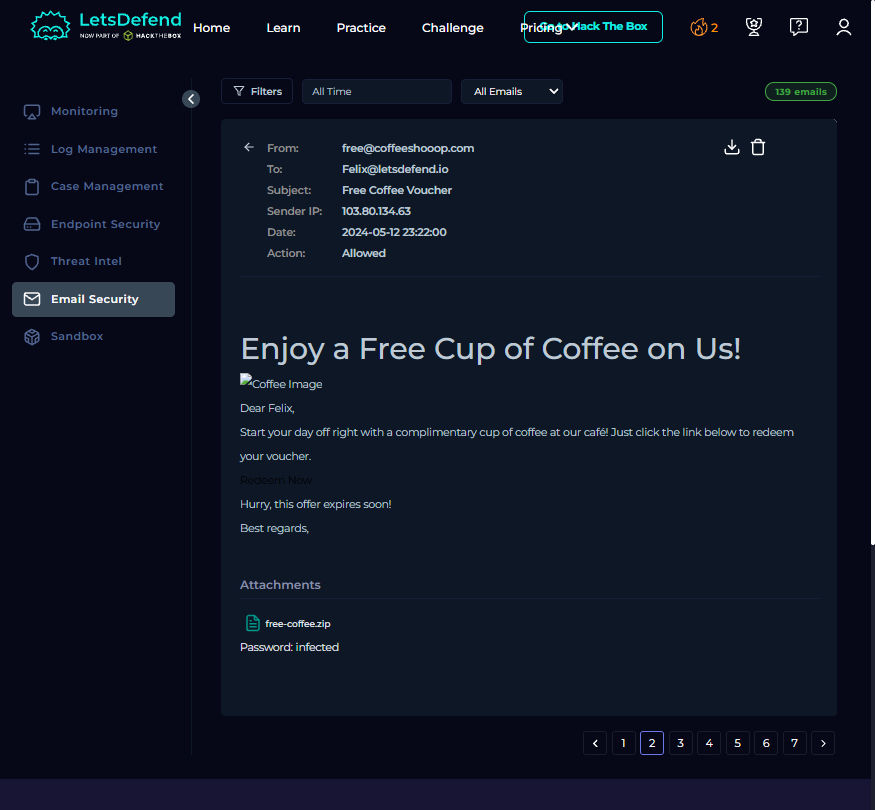
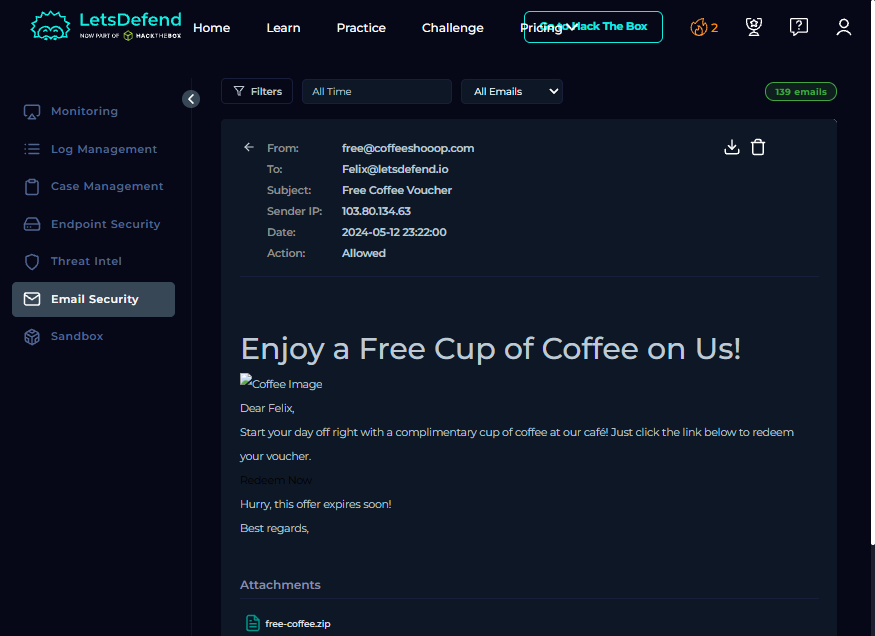
fix: crop passwords from mail screenshots, fix stale report count, bound the SPL window, label rules as draft (v1.2.1)

diff --git a/detection-engineering/tests/test_rules.py b/detection-engineering/tests/test_rules.py
@@ -87,6 +87,15 @@ class TestSplRule(unittest.TestCase):
     def test_has_a_threshold(self) -> None:
         self.assertRegex(self.rule, r"where attempts >= \d+")
 
+    def test_time_window_is_bounded(self) -> None:
+        """An unbounded search is a scan, not a detection."""
+        self.assertRegex(self.rule, r"earliest=-\d+[mhd]")
+        self.assertIn("latest=now", self.rule)
+
+    def test_has_no_redundant_port_range_clause(self) -> None:
+        """The earlier draft had a port clause that could never be false."""
+        self.assertNotIn("dest_port < 1024 OR", self.rule)
+
     def test_excludes_common_ports(self) -> None:
         self.assertRegex(self.rule, r"NOT \(dest_port IN \([0-9, ]+\)\)")
 

diff --git a/detection-engineering/README.md b/detection-engineering/README.md
@@ -14,6 +14,8 @@ so treat them as a starting point for a detection team, not as finished detectio
 
 ## Rule 1 — Office spawns a script host (Sigma)
 
+**Status:** draft · **Tested against real telemetry:** no · **Tuning:** required before use
+
 **Why:** in case 03 the workbook was not the attack; the `cscript.exe` it started was. A spreadsheet has no
 business launching a script interpreter.
 
@@ -66,13 +68,14 @@ alert. Start in `experimental` and route to a test index first.
 
 ## Rule 2 — Outbound session to an uncommon port (SPL)
 
+**Status:** draft · **Tested against real telemetry:** no · **Tuning:** required before use
+
 **Why:** in case 01 the dropped binary opened a TCP session to a hosting address on port `3451`. Port 443 is
 normal; port 3451 from a desktop process is not.
 
 ```spl
-index=firewall action=permit
+index=firewall action=permit earliest=-15m latest=now
 | eval dest_port=tonumber(dest_port)
-| where dest_port < 1024 OR (dest_port >= 1024 AND dest_port <= 65535)
 | where NOT (dest_port IN (53, 80, 123, 443, 8080, 8443))
 | stats count AS attempts,
         min(_time) AS first_seen,
@@ -86,8 +89,10 @@ index=firewall action=permit
 | sort - attempts
 ```
 
-**Reading it:** one hit is noise. Three or more sessions from the same host to the same address and port in
-a short window is a conversation. That is what case 01 looked like.
+**Reading it:** the window is bounded by `earliest=-15m latest=now`, so the search always looks at the last
+fifteen minutes and never at the whole index. The threshold is the second bound: three or more sessions from
+the same host to the same address and port inside those fifteen minutes is a conversation. That is what case
+01 looked like.
 
 **Tuning notes:** add the company's approved outbound ports to the exclusion list. If the firewall logs do
 not carry `process_name`, pivot on `dest_ip` alone and join with EDR later.
@@ -95,6 +100,8 @@ not carry `process_name`, pivot on `dest_ip` alone and join with EDR later.
 ---
 
 ## Rule 3 — Mail delivery, then a download, then a beacon (KQL)
+
+**Status:** draft · **Tested against real telemetry:** no · **Tuning:** required before use
 
 **Why:** cases 01 and 05 both followed the same shape: a message was delivered, a user downloaded a file,
 and a process connected out. Any one row is weak. The three together are the case.

diff --git a/practical-evidence/screenshots/README.md b/practical-evidence/screenshots/README.md
@@ -5,8 +5,8 @@ published. Each image is here to support a specific claim in the case summaries.
 
 | File | Case | What it proves | What was removed |
 | :--- | :--- | :--- | :--- |
-| `01-mail-evidence.png` | Case 01 | The message was delivered, with sender, recipient, subject and action | Nothing — the panel has no answers |
-| `02-mail-body.png` | Case 01 | The body, the "Redeem Now" link and the attachment name | Nothing |
+| `01-mail-evidence.png` | Case 01 | The message was delivered, with sender, recipient, subject and action | The attachment password line, cropped out at 610 px |
+| `02-mail-body.png` | Case 01 | The body, the "Redeem Now" link and the attachment name | The attachment password line, cropped out at 636 px |
 | `03-endpoint-empty.png` | Case 01 | The endpoint console listed no hosts, which is why isolation stayed a recommendation | Nothing |
 | `04-soc138-case-report.png` | Case 03 | Case closed with 100 % playbook success and the alert fields (hash, file name, device action) | The answer panel below the crop line |
 | `05-soc137-case-report.png` | Case 05 | The blocked host in the same campaign, same report layout | The answer panel below the crop line |
@@ -21,6 +21,8 @@ the answer text.
 ## Redaction rules I applied
 
 1. No flags, no answer text, no "correct" markers.
+1. No attachment or archive password, even a training-lab one. The password line is cropped from both mail
+   captures. CI cannot see inside a PNG, so this rule is enforced by opening the image before every commit.
 2. No session tokens, no email addresses of other people, no browser chrome with a logged-in account menu.
 3. No hostnames or IPs from real networks; only lab ranges.
 4. No file paths that reveal a Windows username.

diff --git a/CHANGELOG.md b/CHANGELOG.md
@@ -7,6 +7,31 @@ what changed, not by file.
 
 ---
 
+## [1.2.1] — 2026-11-11
+
+Follow-up fixes after a second review of v1.2.0.
+
+### Fixed
+
+- **Attachment password removed from both mail screenshots.** The password line is cropped from
+  `01-mail-evidence.png` and `02-mail-body.png`, and the screenshots README now records the crop.
+- **Stale claim in the skills table.** "6 reports in this repository" replaced with "5 case summaries and
+  1 Python tool", matching the rest of the README.
+
+### Changed
+
+- **SPL rule now has a bounded time window** (`earliest=-15m latest=now`) and the redundant port-range
+  clause is gone. Without a window the search was a scan.
+- **Every rule carries a status line**: draft, not tested against real telemetry, tuning required.
+- **Two new rule-lint tests**: one fails if the SPL window becomes unbounded, one fails if the redundant
+  port clause returns. Rule lint is now 17 tests.
+
+### Notes
+
+- CI scans `.md`, `.py` and `.log`. It cannot read text inside a PNG, so image redaction stays a manual step
+  in the pre-publish checklist.
+
+---
 ## [1.2.0] — 2026-11-11
 
 Review-driven release. An external review scored the repository 74/100 and listed six high-impact gaps; this

diff --git a/README.md b/README.md
@@ -82,7 +82,7 @@ through it in that order without skipping modules. The module-by-module breakdow
 | Malware and document analysis | Modules 9–13, 24 | Use a sandbox report, read a macro chain, follow a C2 session |
 | Threat intelligence | Modules 19–20 | Check IOCs against VirusTotal and use TI to enrich a case |
 | Incident response | Modules 17, 21 | Contain, eradicate, recover, and record the decision |
-| Documentation | 6 reports in this repository | Turn an investigation into a report a manager can read |
+| Documentation | 5 case summaries and 1 Python tool | Turn an investigation into a report a manager can read |
 
 ### What I am not claiming
 
